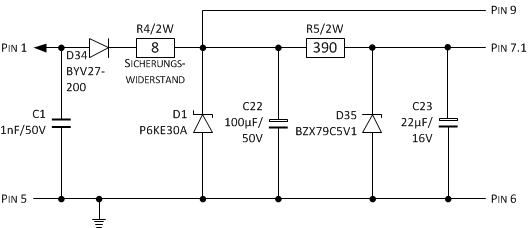
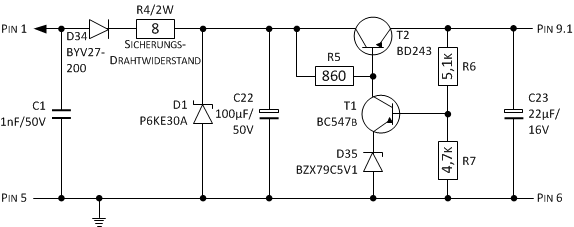
Update Power Supply

Changed region(s): [[0.0, 0.0, 1.0, 0.8943], [0.5152, 0.6476, 0.6667, 0.7709], [0.1515, 0.9559, 0.2121, 1.0]]

diff --git a/pages/versorgungsspannung.md b/pages/versorgungsspannung.md
@@ -14,7 +14,7 @@ Für einfache Anwendungen reicht es, nur gegen zerstörerische Spannungen abzubl
 
 Um Störungen mit hohen Frequenzen von der Schaltung fernzuhalten, ist ganz vorne am Eingang ein Keramikkondensator von 1..10nF zwischen Versorgungsspannung und Masse sinnvoll, der diese Frequenzen dämpft. Um es noch _sauberer_ zu haben, könnte man anstatt den Sicherungswiderstand eine Drossel mit 47μH setzen.
 
-Um länger höhere Spannungen von der Schaltung fernzuhalten, wird eine Überspannungsschutzdiode (TVS-Diode, Transil) eingesetzt, die erst bei einer Spannung von 28,5V (Spannung für den Jumpstart-Test ist 28,8V und der Load Dump-Test erfolgt mit 27V) leitet und bei vollem Ableitstrom nicht mehr als die maximal erlaubte Spannung der Bauteile an die Schaltung lässt (das Maximum liegt bei 41,5V mit einem Stromimpuls von 14,4A siehe [Datenblatt](http://www.diodes.com/assets/Datasheets/ds21502.pdf)).
+Um länger höhere Spannungen von der Schaltung fernzuhalten, wird eine Überspannungsschutzdiode (TVS-Diode, Transil) eingesetzt, die erst bei einer Spannung von 28,5V (Spannung für den [Jumpstart](https://en.wikipedia.org/wiki/Jump_start_(vehicle)) ist 26V und der [Load Dump](http://de.wikipedia.org/wiki/Load_Dump) wird mit 27V angesetzt) leitet und bei vollem Ableitstrom nicht mehr als die maximal erlaubte Spannung der Bauteile an die Schaltung lässt (das Maximum liegt bei 41,5V mit einem Stromimpuls von 14,4A siehe [Datenblatt](http://www.diodes.com/assets/Datasheets/ds21502.pdf)).
 
 Eine Schaltung die zwar keine Prüfung nach ISO (7637-1 von 1990 für ein 12V-System) besteht, aber viele Faktoren bereits berücksichtigt, könnte wie folgt aussehen:
 
@@ -24,19 +24,19 @@ Die TVS-Diode P6KE30A (Unidirektional) hat eine Durchbruchspannung von 28,5V, le
 
 ![KFZ-Versorgungsspannung Abb. 2](../images/Versorgungsspannung_2.png)
 
-Eine Stabilisierung mittles Zenerdiode ist einfach und ausreichend für die angeschlossenen Schaltungseinheiten. Mit Ihr kann eine einfache stabilisierte Spannungsausgang mit geringer Restwelligkeit bei wechselnden Laststrombedingungen erzeugt werden. 
+Eine Stabilisierung mittles Z-Diode (Datenblatt: [BZX79.pdf](http://www.nxp.com/documents/data_sheet/BZX79.pdf)) im Regelkreis und Transistor in Kollektorschaltung (Datenblatt: [BD243](https://www.onsemi.com/pub/Collateral/BD243B-D.PDF)) ist einfach und ausreichend für die angeschlossenen Schaltungseinheiten. Der Spannungsausgang an Pin 9 stellt eine stabile Spannung bei wechselnden Laststrombedingungen zur Verfügung. Der maximal benötigte Ausgangsstrom an Pin 9 soll 200mA betragen. 
 
-Indem die Zenerdiode einen Teil des Stroms von der Spannungsquelle über einen geeigneten Strombegrenzungswiderstand (R5) leitet, wird der Spannungsabfall an Pin 7.1 aufrechterhalten. Durch Verwendung einer 5,1V Zenerdiode (Datenblatt: [BZX79.pdf](http://www.nxp.com/documents/data_sheet/BZX79.pdf)) wird eine spannungsgeregelte Versorgung von ca. 5V (+/- 10%) zur Verfügung gestellt. Der maximal benötigte Ausgangsstrom an Pin 7.1 beträgt 10mA. Somit kann die Leistungsaufnahme der Z-Dioden gering gehalten werden. Am Vorwiderstand R5 können maximal bis zu 30V (siehe oben) abfallen, daher ist bei einem Widerstandswert von 390 Ohm ein Widerstand mit einer Leistung von mind. 2 Watt nötig.
+Indem ein Teil der Ausgangsspannung über eine Regelschaltung bestehend aus Spannungsteiler R6 und R7, Transistor T1 und Z-Diode D34 geleitet wird, werden Spannungen größer 12,1V heruntergeregelt. Der Spannungsteiler dient zum Einstellen des Arbeitspunkts am Transistor T1 und gleichzeitig als Grundlast damit ein mindest Basis-Strom bzw. eine mindes Spannung von 0,7V an der  Basis-Emmiter-Strecke vom Kleinleistungstransistor T2 vorhanden ist. Die Leistungsaufnahme der Z-Diode und T1 kann gering gehalten werden. Am Transistor T2 können jedoch bis zu 23V (siehe oben) abfallen, daher ist bei einer maximalen Strombelastung von 200mA ein Transistor mit einer Leistung von mind. 1 Watt nötig.
 
 ![KFZ-Versorgungsspannung Abb. 3](../images/Versorgungsspannung_3.png)
 
-Da die Z-Diode beim _Versuch_, die Spannung zu stabilisieren, eine elektrische Welligkeit auf der Versorgung erzeugt, kommt ein zusätzlicher Entkopplungskondensator von 22μF/16V zum Einsatz, der kurze Lastspitzen abfängt und die Restwelligkeit der Ausgangsspannung reduziert.
+Da die Regelschaltung beim _Versuch_, die Spannung zu stabilisieren, eine elektrische Welligkeit auf der Versorgung erzeugt, kommt ein zusätzlicher Entkopplungskondensator von 22μF/16V zum Einsatz, der kurze Lastspitzen abfängt und die Restwelligkeit der Ausgangsspannung reduziert.
 
-Die Z-Diode ist zudem ein Teil der Schutzmaßnahme gegen Überspannung für alle IC-Eingänge mit entsprechender Dioden-Schutzschaltung gegen Plus:
+Die Z-Diode ist zudem ein Teil der Schutzmaßnahme gegen Überspannung für alle Eingänge mit entsprechender Dioden-Schutzschaltung gegen Plus:
 
 ![KFZ-Versorgungsspannung Abb. 4](../images/Versorgungsspannung_4.png)
 
-Sobald an einem externen Eingang eine Überspannung erzeugt wird, die über eine Schutzdiodenschaltung nach Plus oder gegen Masse geleitet wird (siehe Abschnitt Kontrollanzeige), fließt ggf. ein genügend schädlicher Strom, der dazu führen kann, dass eines der ICs Schaden nimmt. Die Z-Diode sorgt dafür, dass alle Spannungen von externen Eingängen die größer als 5,8V sind, sicher abgeleitet werden (ein [Low-Drop-Spannungsregler](http://de.wikipedia.org/wiki/Spannungsregler) selbst wäre nicht in der Lage einen Rückstrom zu absorbieren). Die Strombegrenzung für die Dioden erfolgt durch den Eingangswiderstand des jeweiligen externen Einganges.
+Sobald an einem externen Eingang eine Überspannung erzeugt wird, die über eine Schutzdiodenschaltung nach Plus oder gegen Masse geleitet wird (siehe Abschnitt Kontrollanzeige), fließt ggf. ein genügend schädlicher Strom, der dazu führen kann, dass eines der ICs Schaden nimmt. Die Z-Diode sorgt dafür, dass alle Spannungen von externen Eingängen die größer als 12,8V sind, sicher abgeleitet werden (ein Längsregler selbst wäre nicht in der Lage einen Rückstrom zu absorbieren). Die Strombegrenzung für die Dioden erfolgt durch den Eingangswiderstand des jeweiligen externen Einganges.
 
 ## Quellen und weiterführende Literatur
 
@@ -44,7 +44,8 @@ Sobald an einem externen Eingang eine Überspannung erzeugt wird, die über eine
 - Mikrocontroller.net; [Kfz Spannungsspitzenkiller / Transientenschutz](http://www.mikrocontroller.net/articles/Kfz_Spannungsspitzenkiller_/_Transientenschutz)
 - Mikrocontroller.net; [12V KFZ Versorgungs-Schaltung aus de.dse-faq](https://www.mikrocontroller.net/topic/392585)
 - de.sci.electronics-FAQ; [F.23. Das KFZ-Bordnetz](http://www.dse-faq.elektronik-kompendium.de/dse-faq.htm#F.23)
-- Elektronik-Kompendium; [Spannungsstabilisierung mit Z-Diode](http://www.elektronik-kompendium.de/sites/slt/1012151.htm)
+- Elektronik-Kompendium; [PROTECTION STANDARDS APPLICABLE TO AUTOMOBILES](http://www.elektronik-kompendium.de/public/schaerer/FILES/sgs_pulsetest_auto.pdf)
+- Elektronik-Kompendium; [Spannungsstabilisierung mit Z-Diode und Transistor (Kollektorschaltung)](https://www.elektronik-kompendium.de/sites/slt/0204131.htm)
 
 ### Startseite
 Zum Anfang geht's [hier](../index.html).
